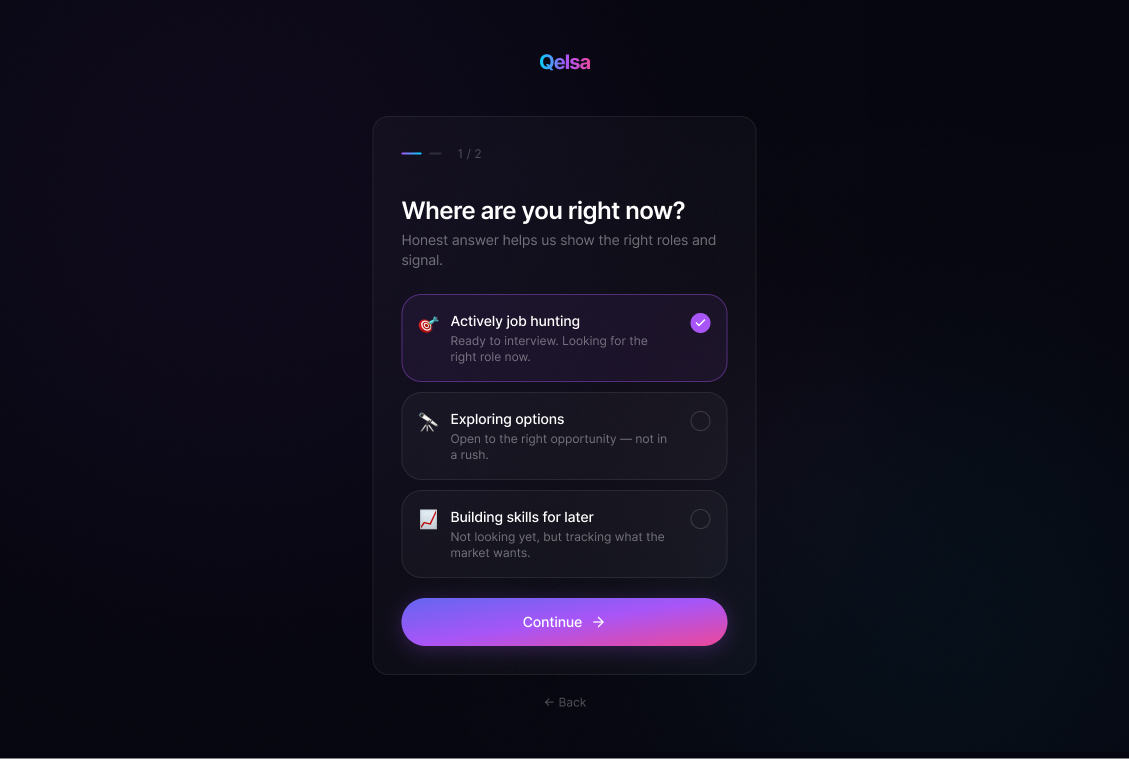
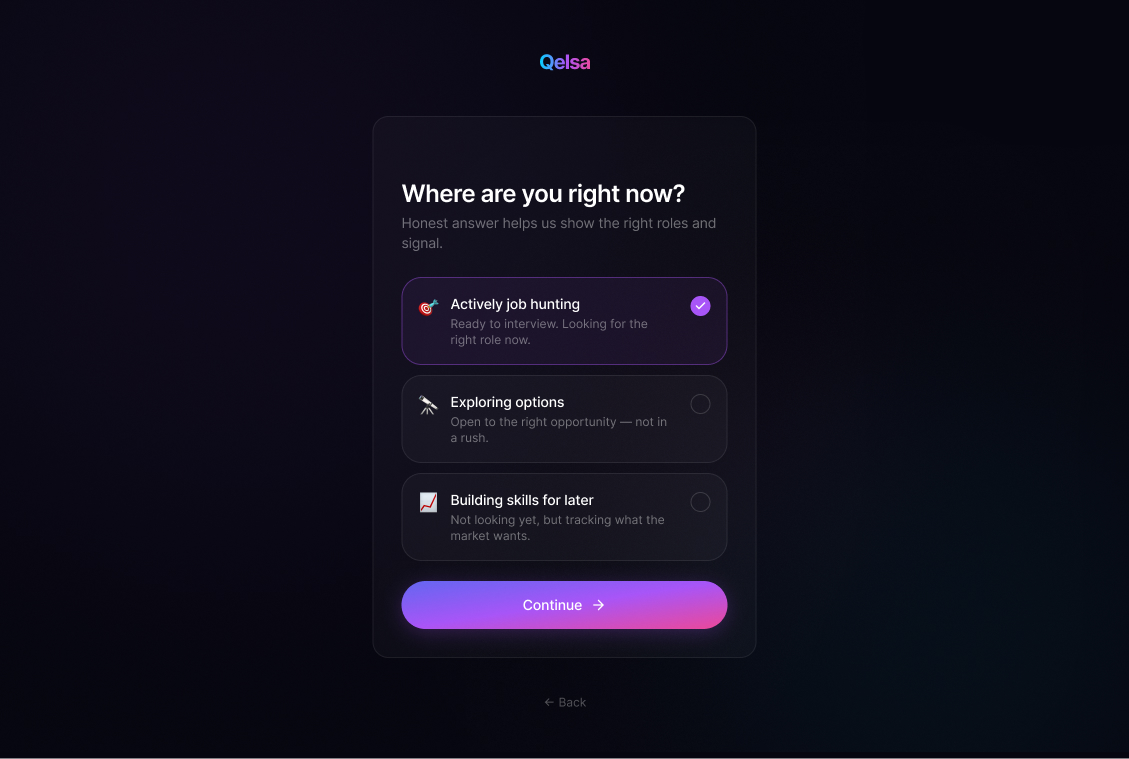
Fix onboarding

diff --git a/apps/web/src/components/onboarding/ResumeUpload.tsx b/apps/web/src/components/onboarding/ResumeUpload.tsx
@@ -77,43 +77,46 @@ export function ResumeUpload({
           setDragOver(false);
           takeFile(event.dataTransfer.files?.[0]);
         }}
-        className={`mt-10 flex w-full max-w-xl flex-col items-center rounded-3xl border border-dashed px-8 py-14 text-center transition-colors ${
+        className={`mt-10 grid w-full max-w-xl rounded-3xl border border-dashed px-8 py-14 text-center transition-colors ${
           dragOver || file ? "border-neon-cyan/70 bg-neon-cyan/5" : "border-white/15 bg-white/[0.02]"
         }`}
       >
-        {file ? (
-          <>
-            <FileText className="h-10 w-10 text-neon-cyan" />
-            <p className="mt-4 text-lg font-medium text-white">{file.name}</p>
-            <p className="mt-1 text-sm text-muted-foreground">{(file.size / (1024 * 1024)).toFixed(2)} MB</p>
-            <button
-              type="button"
-              onClick={() => onFile(null)}
-              className="mt-4 flex cursor-pointer items-center gap-1 text-sm text-muted-foreground hover:text-white"
-            >
-              <X className="h-3.5 w-3.5" /> Remove
-            </button>
-          </>
-        ) : (
-          <>
-            <div className="flex h-16 w-16 items-center justify-center rounded-full border border-white/10 bg-white/[0.04]">
-              <Upload className="h-7 w-7 text-white" />
-            </div>
-            <p className="mt-5 text-lg text-white">Drag and drop your resume here</p>
-            <p className="mt-3 text-sm text-muted-foreground">or</p>
-            <button
-              type="button"
-              onClick={() => inputRef.current?.click()}
-              className="mt-4 cursor-pointer rounded-full border border-white/15 bg-white/[0.04] px-6 py-2.5 text-sm text-white hover:bg-white/[0.08]"
-            >
-              Browse files
-            </button>
-            <p className="mt-4 text-sm text-muted-foreground">PDF, DOCX, PNG, or JPG · Max 10 MB</p>
-          </>
-        )}
+        <div
+          className={`col-start-1 row-start-1 flex flex-col items-center ${file ? "invisible pointer-events-none" : ""}`}
+          aria-hidden={Boolean(file)}
+        >
+          <div className="flex h-16 w-16 items-center justify-center rounded-full border border-white/10 bg-white/[0.04]">
+            <Upload className="h-7 w-7 text-white" />
+          </div>
+          <p className="mt-5 text-lg text-white">Drag and drop your resume here</p>
+          <p className="mt-3 text-sm text-muted-foreground">or</p>
+          <button
+            type="button"
+            onClick={() => inputRef.current?.click()}
+            className="mt-4 cursor-pointer rounded-full border border-white/15 bg-white/[0.04] px-6 py-2.5 text-sm text-white hover:bg-white/[0.08]"
+          >
+            Browse files
+          </button>
+          <p className="mt-4 text-sm text-muted-foreground">PDF, DOCX, PNG, or JPG · Max 10 MB</p>
+        </div>
+        <div
+          className={`col-start-1 row-start-1 flex flex-col items-center justify-center ${file ? "" : "invisible pointer-events-none"}`}
+          aria-hidden={!file}
+        >
+          <FileText className="h-10 w-10 text-neon-cyan" />
+          <p className="mt-4 max-w-full truncate px-2 text-lg font-medium text-white">{file?.name}</p>
+          <p className="mt-1 text-sm text-muted-foreground">{file ? `${(file.size / (1024 * 1024)).toFixed(2)} MB` : ""}</p>
+          <button
+            type="button"
+            onClick={() => onFile(null)}
+            className="mt-4 flex cursor-pointer items-center gap-1 text-sm text-muted-foreground hover:text-white"
+          >
+            <X className="h-3.5 w-3.5" /> Remove
+          </button>
+        </div>
       </div>
 
-      {error ? <p className="mt-4 text-sm text-neon-pink">{error}</p> : null}
+      <p className="mt-4 min-h-5 text-center text-sm text-neon-pink">{error ?? ""}</p>
 
       <button
         type="button"

diff --git a/packages/backend/convex/auth.ts b/packages/backend/convex/auth.ts
@@ -1,16 +1,18 @@
-import { R2 } from "@convex-dev/r2";
 import { createClient } from "@convex-dev/better-auth";
 import { convex } from "@convex-dev/better-auth/plugins";
+import { R2 } from "@convex-dev/r2";
 import { betterAuth } from "better-auth/minimal";
 import { emailOTP } from "better-auth/plugins";
+import { v } from "convex/values";
 import { components, internal } from "./_generated/api";
 import type { DataModel, Id } from "./_generated/dataModel";
-import { query, mutation, internalMutation, type ActionCtx, type MutationCtx } from "./_generated/server";
-import { v } from "convex/values";
+import { internalMutation, mutation, query, type ActionCtx, type MutationCtx } from "./_generated/server";
 import authConfig from "./auth.config";
 import { deleteAppUserData } from "./lib/deleteUserData";
 
 const siteUrl = process.env.SITE_URL ?? process.env.NEXT_PUBLIC_SITE_URL ?? "http://localhost:3000";
+
+const trustedOrigins = process.env.TRUSTED_ORIGINS?.split(",") ?? [];
 
 type AppUserFields = { authId: string; email: string; name?: string; image?: string };
 
@@ -99,7 +101,7 @@ export const { onCreate, onUpdate, onDelete } = authComponent.triggersApi();
 export const createAuth = (ctx: Parameters<typeof authComponent.adapter>[0]) =>
   betterAuth({
     baseURL: siteUrl,
-    trustedOrigins: [siteUrl, "http://localhost:3000", "http://localhost:3001"],
+    trustedOrigins: [siteUrl, "http://localhost:3000", "http://localhost:3001", ...trustedOrigins],
     database: authComponent.adapter(ctx),
     emailAndPassword: {
       enabled: true,

diff --git a/apps/web/src/pages/onboarding/index.tsx b/apps/web/src/pages/onboarding/index.tsx
@@ -7,7 +7,7 @@ import { OnboardingShell } from "@/components/onboarding/OnboardingShell";
 import { useAuth } from "@/contexts/AuthContext";
 import type { AccountType } from "@/features/api/authApi";
 import { useSetAccountTypeAndResetOnboardingMutation } from "@/features/api/onboardingApi";
-import { homeForAccount, needsOnboarding } from "@/lib/onboarding";
+import { homeForAccount } from "@/lib/onboarding";
 import { useRouter } from "next/navigation";
 import { useEffect, useState } from "react";
 import { toast } from "sonner";
@@ -29,7 +29,7 @@ export default function OnboardingPage() {
   useEffect(() => {
     if (isLoading || !user) return;
     if (!user.account_type && !pickingRole) setPickingRole(true);
-    if (!justFinished && user.account_type && !needsOnboarding(user) && !pickingRole) {
+    if (!justFinished && user.account_type && user.onboarding_completed && !pickingRole) {
       router.replace(homeForAccount(user));
     }
   }, [isLoading, user, pickingRole, justFinished, router]);

diff --git a/packages/backend/convex/onboarding.ts b/packages/backend/convex/onboarding.ts
@@ -176,10 +176,6 @@ export const applyParsedProfile = authedMutation({
     if (profile.name?.trim()) {
       await ctx.db.patch(ctx.user._id, { name: profile.name.trim() });
     }
-    await ensureUsername(ctx, {
-      ...ctx.user,
-      name: profile.name?.trim() || ctx.user.name,
-    });
 
     const cityId = profile.location ? await findCityId(ctx, profile.location) : undefined;
     await ctx.db.patch(ctx.user._id, {

diff --git a/apps/web/src/components/onboarding/ResumeParsing.tsx b/apps/web/src/components/onboarding/ResumeParsing.tsx
@@ -35,7 +35,6 @@ export function ResumeParsing() {
       <div className="mt-6 h-1.5 w-64 overflow-hidden rounded-full bg-white/10">
         <div className="h-full rounded-full gradient-primary transition-[width] duration-300" style={{ width: `${progress}%` }} />
       </div>
-      <p className="mt-4 text-sm text-muted-foreground">Takes under 10 seconds</p>
     </div>
   );
 }
